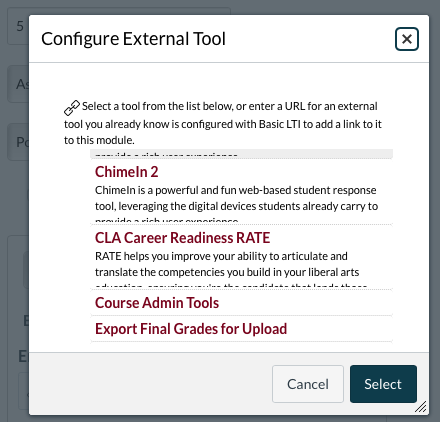
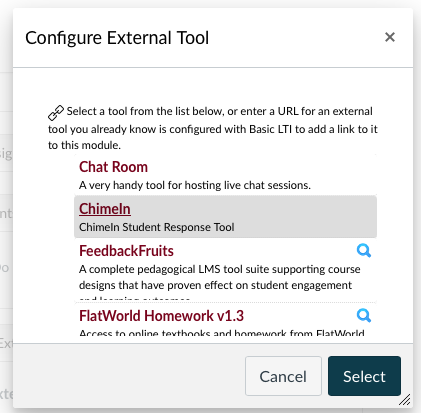
remove notes about it being chimein2

diff --git a/docs/index.md b/docs/index.md
@@ -2,10 +2,6 @@
 
 [ChimeIn (chimein2.cla.umn.edu)](https://chimein2.cla.umn.edu) is a fast, flexible response tracking tool. Think of it as a web-based "clicker" tool, but with advanced features that aren't possible with traditional clickers. ChimeIn can be used in classes, but it can also be used for meetings, conferences, or any type of event in which you want to collect feedback. ChimeIn can also be used both synchronously and asynchronously.
 
-::: tip Migrating from the original ChimeIn?  
-Check out our [moving to ChimeIn 2](moving-to-chimein-2) page or [contact us](mailto:latistecharch@umn.edu) for a personal introduction
-:::
-
 We've got an orientation video, which will cover all the basics. You can take a look below.
 
 <iframe width="100%" height="415" src="https://www.youtube.com/embed/A1jmm6ckm3Y" frameborder="0" allow="accelerometer; autoplay; encrypted-media; gyroscope; picture-in-picture" allowfullscreen></iframe>

diff --git a/docs/cheatsheet.md b/docs/cheatsheet.md
@@ -1,4 +1,4 @@
-# ChimeIn 2 Cheatsheet
+# ChimeIn Cheatsheet
 
 Need a quick reminder about how to use ChimeIn when it comes time to actually ask questions? This page is an in-the-moment cheatsheet for you.
 
